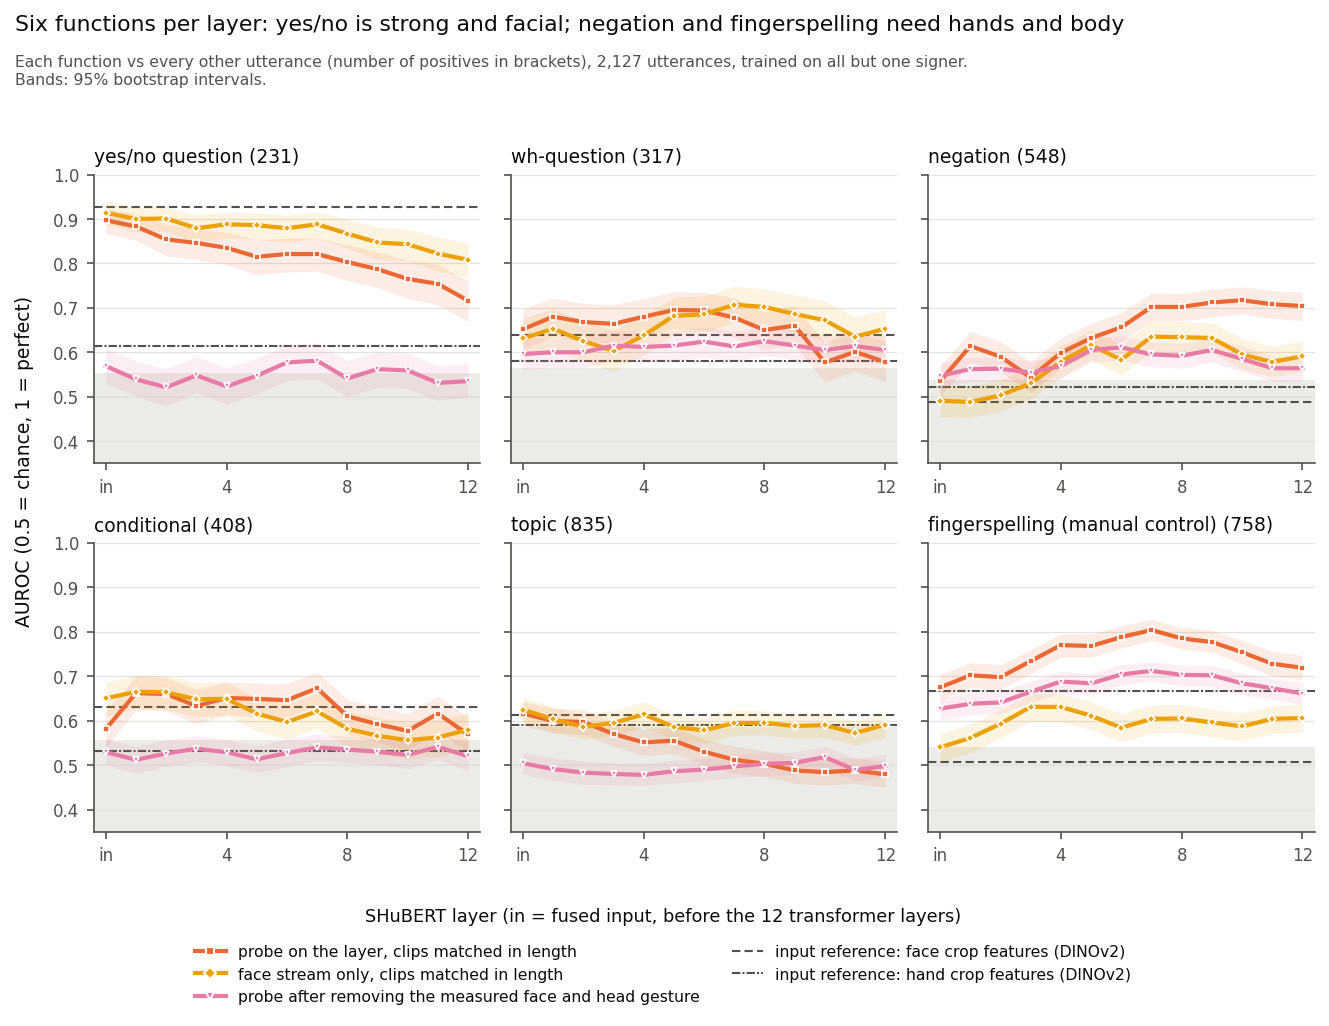
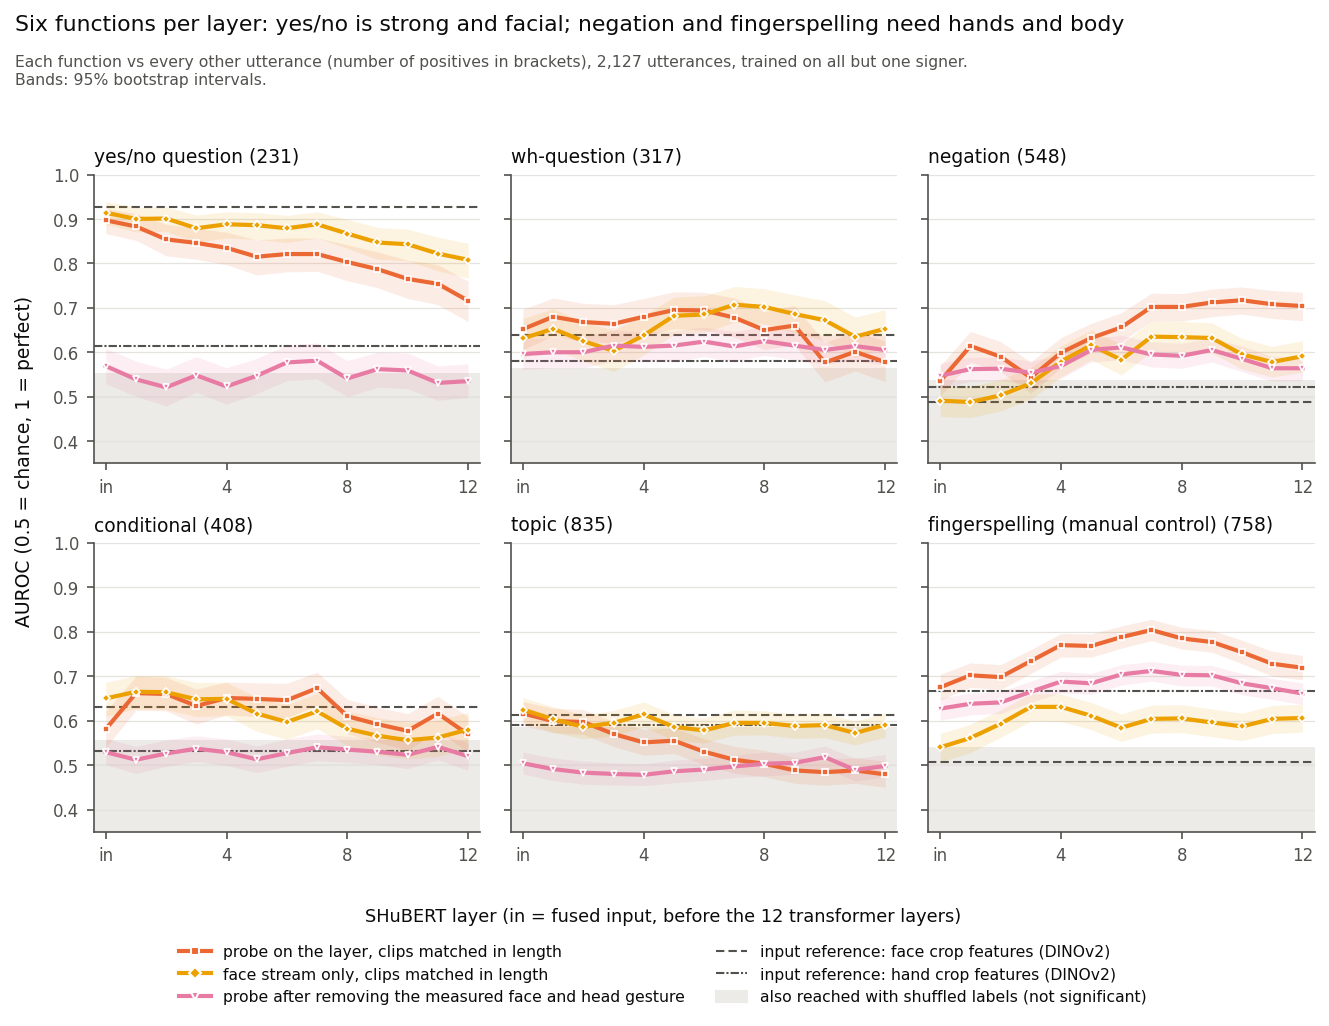
explain the shuffled-label band in figures

Changed region(s): [[0.1543, 0.9045, 0.5245, 0.9981], [0.5553, 0.9045, 0.8638, 0.9981]]

diff --git a/src/figures.py b/src/figures.py
@@ -102,6 +102,11 @@ def title(fig, ax, text, sub):
     ax.text(0, 1.02, sub, transform=ax.transAxes, color=MUTED, fontsize=8, va="bottom")
 
 
+def null_note(ax, nul, x=12.4, y=0.41):
+    ax.text(x, y, f"grey band: also reached with shuffled labels (up to {nul:.2f}), so not significant",
+            color=MUTED, fontsize=7, ha="right", va="bottom")
+
+
 def dataset_figure():
     u = pd.read_csv(ROOT / "data/utterances.csv")
     cols = {"yn": "yes/no\nquestion", "wh": "wh-\nquestion", "neg": "negation", "cond": "conditional",
@@ -149,6 +154,7 @@ def yn_figure(probes, face, r):
     ser = lambda s: {"direct": curve(probes, "yn", "centred", s), "decoded": decoded(probes, s),
                      "residual": curve(r, "yn", "residual", s)}
     draw(ax, ser("pooled"))
+    null_note(ax, nul)
     ax.set_ylabel(AUROC_Y, color=INK, fontsize=9)
     ax.set_xlabel(LAYER_X, color=INK, fontsize=8.5)
     title(fig, ax, "Every SHuBERT layer tells yes/no questions apart, through head pitch",
@@ -175,6 +181,7 @@ def yn_controls_figure(probes, face, r):
     ax.plot(L, v[:, 0], color=MUTED, lw=1.2, ls=(0, (3, 2)), label="probe on the layer (all clips), as before", zorder=2)
     draw(ax, {"matched": curve(probes, "yn", "length-matched", "pooled"),
               "face_only": curve(face, "yn", "length-matched", "pooled")})
+    null_note(ax, nul)
     ax.set_ylabel(AUROC_Y, color=INK, fontsize=9)
     ax.set_xlabel(LAYER_X, color=INK, fontsize=8.5)
     title(fig, ax, "Controls: not clip length, and the face stream alone is enough",
@@ -200,6 +207,8 @@ def functions_figure(probes, face, r):
     labels = [SERIES[k][0] for k in ["matched", "face_only", "residual"]]
     handles += [plt.Line2D([], [], color=MUTED, lw=1, ls=REFS[f][1]) for f in ["dino_face", "dino_hands"]]
     labels += [f"input reference: {REFS[f][0]}" for f in ["dino_face", "dino_hands"]]
+    handles.append(plt.Rectangle((0, 0), 1, 1, color=NULL))
+    labels.append("also reached with shuffled labels (not significant)")
     fig.legend(handles, labels, loc="lower center", ncol=2, fontsize=7.5, frameon=False, labelcolor=INK,
                bbox_to_anchor=(0.5, -0.1))
     fig.supylabel(AUROC_Y, color=INK, fontsize=9)
